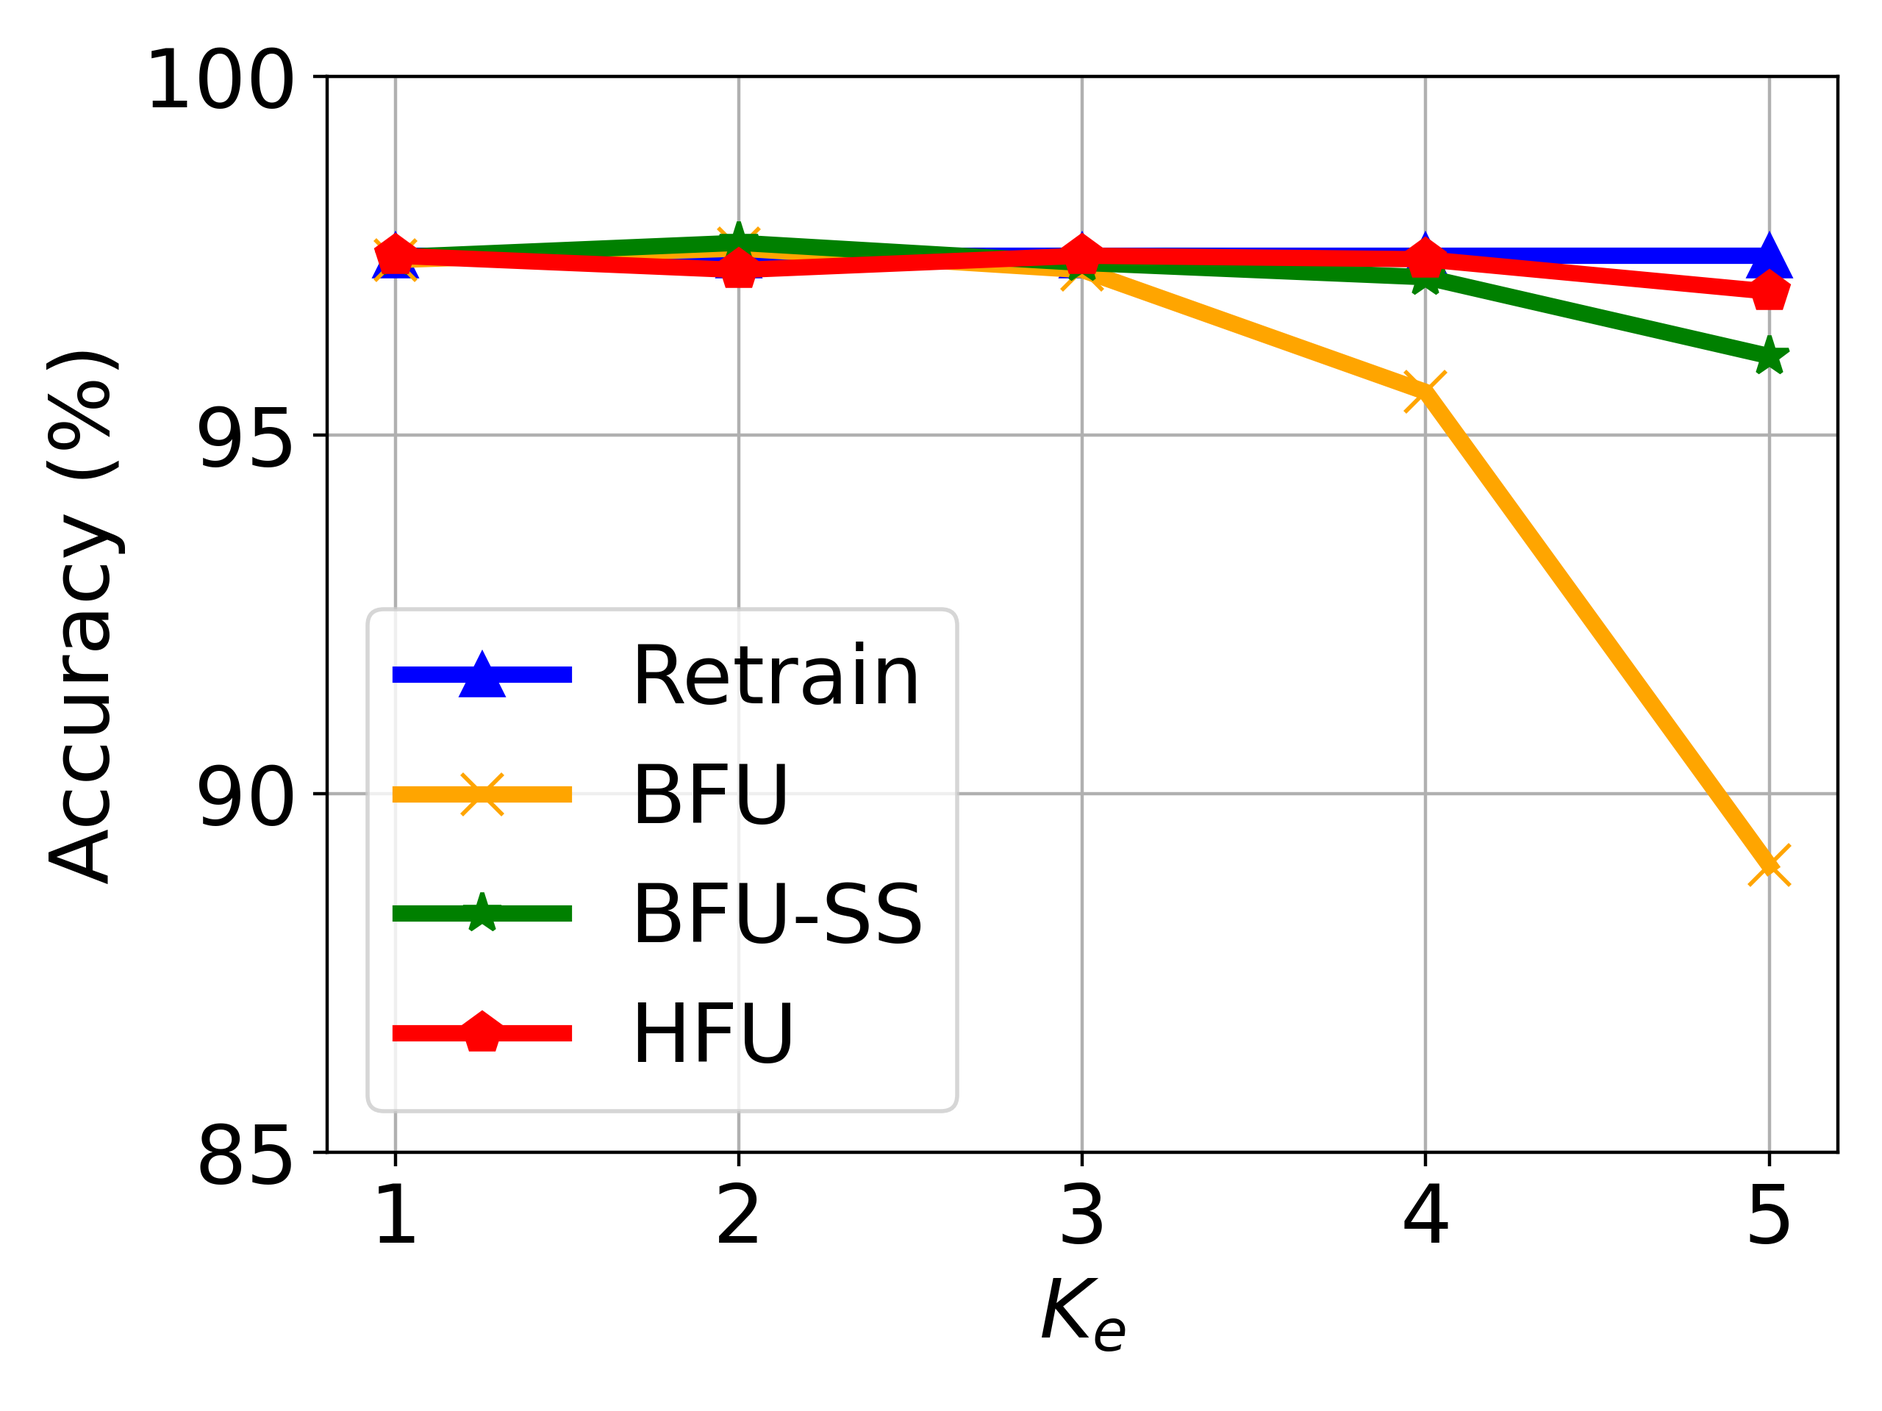
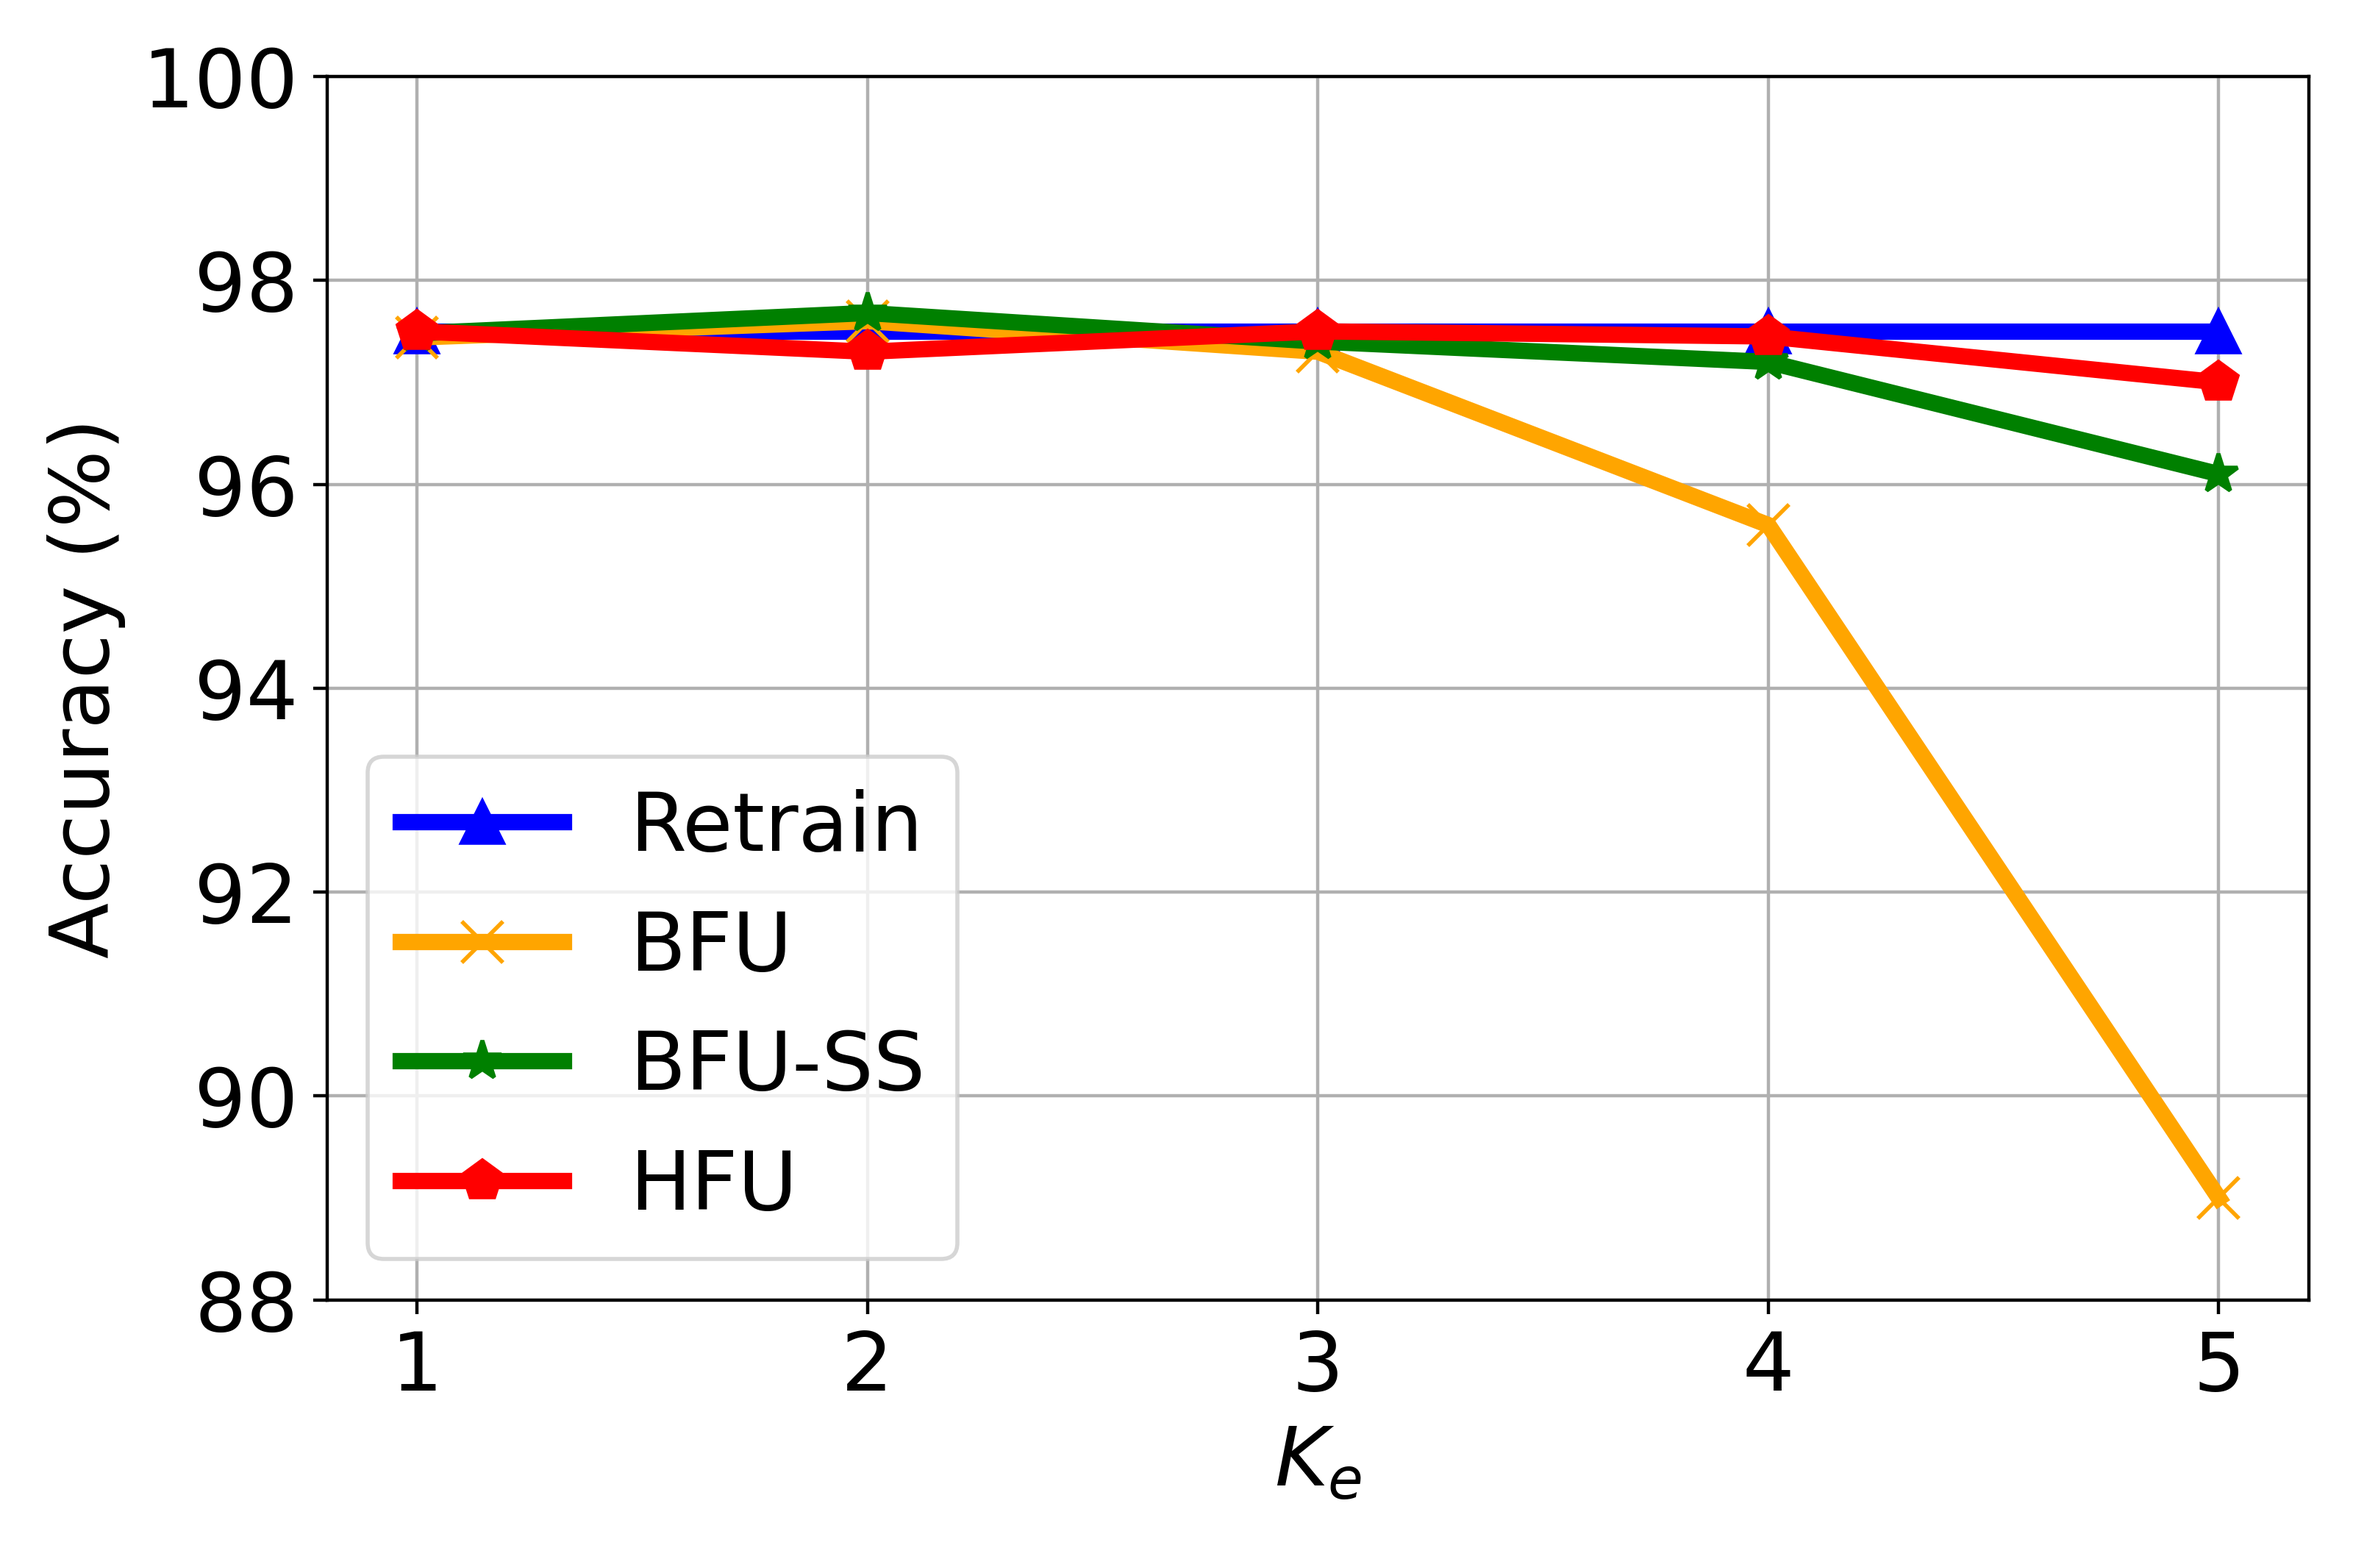
update

diff --git a/Experiment_results/MNIST/client/mnist_client_ur/mnist_client_acc_ur_curve.py b/Experiment_results/MNIST/client/mnist_client_ur/mnist_client_acc_ur_curve.py
@@ -26,7 +26,7 @@ plt.figure()
 plt.plot(x, unl_fr, color='blue', marker='^', label='Retrain',linewidth=4, markersize=10)
 plt.plot(x, unl_br, color='orange',  marker='x',  label='BFU',linewidth=4,  markersize=10)
 plt.plot(x, unl_self_r, color='g',  marker='*',  label='BFU-SS',linewidth=4, markersize=10)
-plt.plot(x, unl_hess_r, color='r',  marker='p',  label='HFU',linewidth=4, markersize=10)
+# plt.plot(x, unl_hess_r, color='r',  marker='p',  label='HFU',linewidth=4, markersize=10)
 # plt.plot(x, y_sa03, color='r',  marker='2',  label='AAAI21 A_acc, pr=0.3',linewidth=3, markersize=8)
 # plt.plot(x, y_sa05, color='darkblue',  marker='4',  label='AAAI21 A_acc, pr=0.5',linewidth=3, markersize=8)
 # plt.plot(x, y_ma03, color='darkviolet',  marker='3',  label='FedMC A_acc, pr=0.3',linewidth=3, markersize=8)

diff --git a/Experiment_results/MNIST/Server_acc/mnist_Acc_er_curve.py b/Experiment_results/MNIST/Server_acc/mnist_Acc_er_curve.py
@@ -21,7 +21,7 @@ unl_hess_r = [96.98,  97.3, 97.5, 97.18, 97.22]
 
 
 
-plt.figure()
+plt.figure(figsize=(8, 5.3))
 plt.plot(x, unl_fr, color='blue', marker='^', label='Retrain',linewidth=4, markersize=10)
 plt.plot(x, unl_br, color='orange',  marker='x',  label='BFU',linewidth=4,  markersize=10)
 plt.plot(x, unl_self_r, color='g',  marker='*',  label='BFU-SS',linewidth=4, markersize=10)
@@ -36,7 +36,7 @@ plt.grid()
 leg = plt.legend(fancybox=True, shadow=True)
 # plt.xlabel('Malicious Client Ratio (%)' ,fontsize=16)
 plt.ylabel('Accuracy (%)' ,fontsize=20)
-my_y_ticks = np.arange(95 ,101,1)
+my_y_ticks = np.arange(88 ,101,2)
 plt.yticks(my_y_ticks,fontsize=20)
 plt.xlabel('$\it{EDR}$' ,fontsize=20)
 

diff --git a/Experiment_results/MNIST/Server_acc/mnist_Acc_ur_curve.py b/Experiment_results/MNIST/Server_acc/mnist_Acc_ur_curve.py
@@ -22,7 +22,7 @@ unl_hess_r = [97.5,  97.5, 97.5, 97.5, 97.5]
 
 
 
-plt.figure()
+plt.figure(figsize=(8, 5.3))
 plt.plot(x, unl_fr, color='blue', marker='^', label='Retrain',linewidth=4, markersize=10)
 plt.plot(x, unl_br, color='orange',  marker='x',  label='BFU',linewidth=4,  markersize=10)
 plt.plot(x, unl_self_r, color='g',  marker='*',  label='BFU-SS',linewidth=4, markersize=10)
@@ -37,7 +37,7 @@ plt.grid()
 leg = plt.legend(fancybox=True, shadow=True)
 # plt.xlabel('Malicious Client Ratio (%)' ,fontsize=16)
 plt.ylabel('Accuracy (%)' ,fontsize=20)
-my_y_ticks = np.arange(90 ,101,2)
+my_y_ticks = np.arange(88 ,101,2)
 plt.yticks(my_y_ticks,fontsize=20)
 
 plt.xlabel('$\\beta$' ,fontsize=20)

diff --git a/Experiment_results/MNIST/Server_acc/mnist_Acc_ke_curve.py b/Experiment_results/MNIST/Server_acc/mnist_Acc_ke_curve.py
@@ -21,7 +21,7 @@ unl_hess_r = [97.5,  97.3, 97.5, 97.45, 97]
 
 
 
-plt.figure()
+plt.figure(figsize=(8, 5.3))
 plt.plot(x, unl_fr, color='blue', marker='^', label='Retrain',linewidth=4, markersize=10)
 plt.plot(x, unl_br, color='orange',  marker='x',  label='BFU',linewidth=4,  markersize=10)
 plt.plot(x, unl_self_r, color='g',  marker='*',  label='BFU-SS',linewidth=4, markersize=10)
@@ -36,7 +36,7 @@ plt.grid()
 leg = plt.legend(fancybox=True, shadow=True)
 # plt.xlabel('Malicious Client Ratio (%)' ,fontsize=16)
 plt.ylabel('Accuracy (%)' ,fontsize=20)
-my_y_ticks = np.arange(85 ,105,5)
+my_y_ticks = np.arange(88 ,101,2)
 plt.yticks(my_y_ticks,fontsize=20)
 plt.xlabel('$K_e$' ,fontsize=20)
 

diff --git a/Experiment_results/MNIST/Server_backAcc/mnist_BackAcc_er_curve.py b/Experiment_results/MNIST/Server_backAcc/mnist_BackAcc_er_curve.py
@@ -31,7 +31,7 @@ for i in range(len(unl_self_r)):
 for i in range(len(unl_hess_r)):
     unl_hess_r[i] = unl_hess_r[i] *100
 
-plt.figure()
+plt.figure(figsize=(8, 5.3))
 plt.plot(x, unl_fr, color='blue', marker='^', label='Retrain',linewidth=4, markersize=10)
 plt.plot(x, unl_br, color='orange',  marker='x',  label='BFU',linewidth=4,  markersize=10)
 plt.plot(x, unl_self_r, color='g',  marker='*',  label='BFU-SS',linewidth=4, markersize=10)

diff --git a/Experiment_results/MNIST/Server_backAcc/mnist_BackAcc_ur_curve.py b/Experiment_results/MNIST/Server_backAcc/mnist_BackAcc_ur_curve.py
@@ -32,7 +32,7 @@ for i in range(len(unl_self_r)):
 for i in range(len(unl_hess_r)):
     unl_hess_r[i] = unl_hess_r[i] *100
 
-plt.figure()
+plt.figure(figsize=(8, 5.3))
 plt.plot(x, unl_fr, color='blue', marker='^', label='Retrain',linewidth=4, markersize=10)
 plt.plot(x, unl_br, color='orange',  marker='x',  label='BFU',linewidth=4,  markersize=10)
 plt.plot(x, unl_self_r, color='g',  marker='*',  label='BFU-SS',linewidth=4, markersize=10)

diff --git a/Experiment_results/CIFAR10/Server_runtime/cifar_rt_ke_bar.py b/Experiment_results/CIFAR10/Server_runtime/cifar_rt_ke_bar.py
@@ -14,8 +14,7 @@ width = 0.6  # the width of the bars
 # samping = np.around(samping,0)
 # ldp = np.around(ldp,0)
 
-
-plt.subplots()
+plt.subplots(figsize=(8, 5.3))
 plt.bar(x - width / 2 + width / 8, unl_fr, width=0.148, label='Origin', color='royalblue', hatch='/')
 plt.bar(x - width / 8, unl_br, width=0.148, label='BFU', color='gold', hatch='**')
 plt.bar(x + width / 8, unl_self_r, width=0.148, label='BFU-SS', color='green', hatch='++')

diff --git a/Experiment_results/CIFAR10/Server_backacc/cifar_BackAcc_ke_curve.py b/Experiment_results/CIFAR10/Server_backacc/cifar_BackAcc_ke_curve.py
@@ -20,8 +20,7 @@ unl_hess_r = [13.3,  17.7, 8.04, 14.4, 8.7]
 org = [66.7, 86.2 , 88 ,89.7, 91.7]
 
 
-
-plt.figure()
+plt.figure(figsize=(8, 5.3))
 plt.plot(x, unl_fr, color='blue', marker='^', label='Retrain',linewidth=4, markersize=10)
 plt.plot(x, unl_br, color='orange',  marker='x',  label='BFU',linewidth=4,  markersize=10)
 plt.plot(x, unl_self_r, color='g',  marker='*',  label='BFU-SS',linewidth=4, markersize=10)

diff --git a/Experiment_results/CIFAR10/Server_runtime/cifar_rt_er_bar.py b/Experiment_results/CIFAR10/Server_runtime/cifar_rt_er_bar.py
@@ -15,7 +15,7 @@ width = 0.6  # the width of the bars
 # ldp = np.around(ldp,0)
 
 
-plt.subplots()
+plt.subplots(figsize=(8, 5.3))
 plt.bar(x - width / 2 + width / 8, unl_fr, width=0.148, label='Origin', color='royalblue', hatch='/')
 plt.bar(x - width / 8, unl_br, width=0.148, label='BFU', color='gold', hatch='**')
 plt.bar(x + width / 8, unl_self_r, width=0.148, label='BFU-SS', color='green', hatch='++')

diff --git a/Experiment_results/MNIST/Server_runtime/mnist_rt_er_bar.py b/Experiment_results/MNIST/Server_runtime/mnist_rt_er_bar.py
@@ -15,7 +15,7 @@ width = 0.6  # the width of the bars
 # ldp = np.around(ldp,0)
 
 
-plt.subplots()
+plt.subplots(figsize=(8, 5.3))
 plt.bar(x - width / 2 + width / 8, unl_fr, width=0.148, label='Origin', color='royalblue', hatch='/')
 plt.bar(x - width / 8, unl_br, width=0.148, label='BFU', color='gold', hatch='**')
 plt.bar(x + width / 8, unl_self_r, width=0.148, label='BFU-SS', color='green', hatch='++')

diff --git a/Experiment_results/MNIST/Server_runtime/mnist_rt_ke_bar.py b/Experiment_results/MNIST/Server_runtime/mnist_rt_ke_bar.py
@@ -15,7 +15,7 @@ width = 0.6  # the width of the bars
 # ldp = np.around(ldp,0)
 
 
-plt.subplots()
+plt.subplots(figsize=(8, 5.3))
 plt.bar(x - width / 2 + width / 8, unl_fr, width=0.148, label='Origin', color='royalblue', hatch='/')
 plt.bar(x - width / 8, unl_br, width=0.148, label='BFU', color='gold', hatch='**')
 plt.bar(x + width / 8, unl_self_r, width=0.148, label='BFU-SS', color='green', hatch='++')

diff --git a/Experiment_results/CIFAR10/Server_acc/cifar10_Acc_er_curve.py b/Experiment_results/CIFAR10/Server_acc/cifar10_Acc_er_curve.py
@@ -21,8 +21,7 @@ unl_hess_r = [80.21,  80.14, 78.6, 79.76, 79.56]
 
 
 
-
-plt.figure()
+plt.figure(figsize=(8, 5.3))
 plt.plot(x, unl_fr, color='blue', marker='^', label='Retrain',linewidth=4, markersize=10)
 plt.plot(x, unl_br, color='orange',  marker='x',  label='BFU',linewidth=4,  markersize=10)
 plt.plot(x, unl_self_r, color='g',  marker='*',  label='BFU-SS',linewidth=4, markersize=10)
